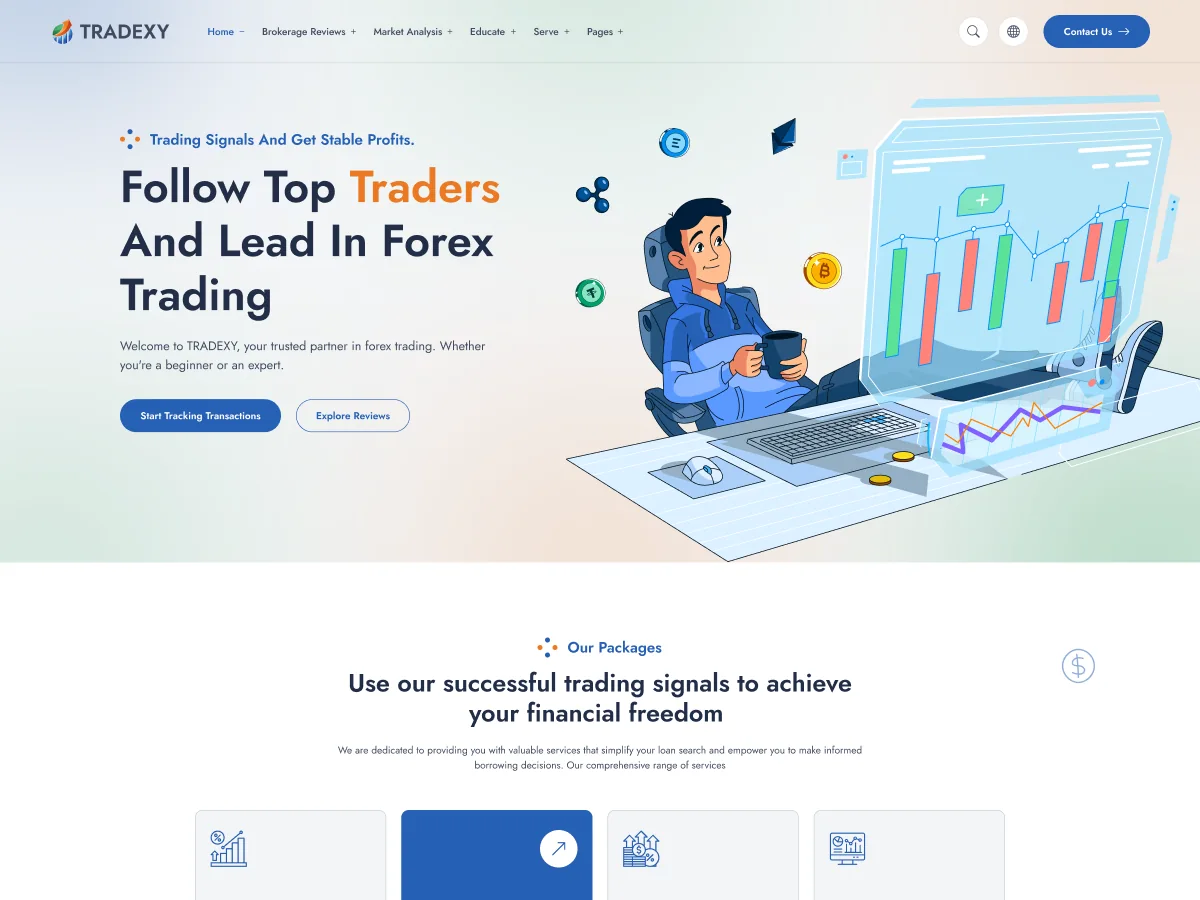
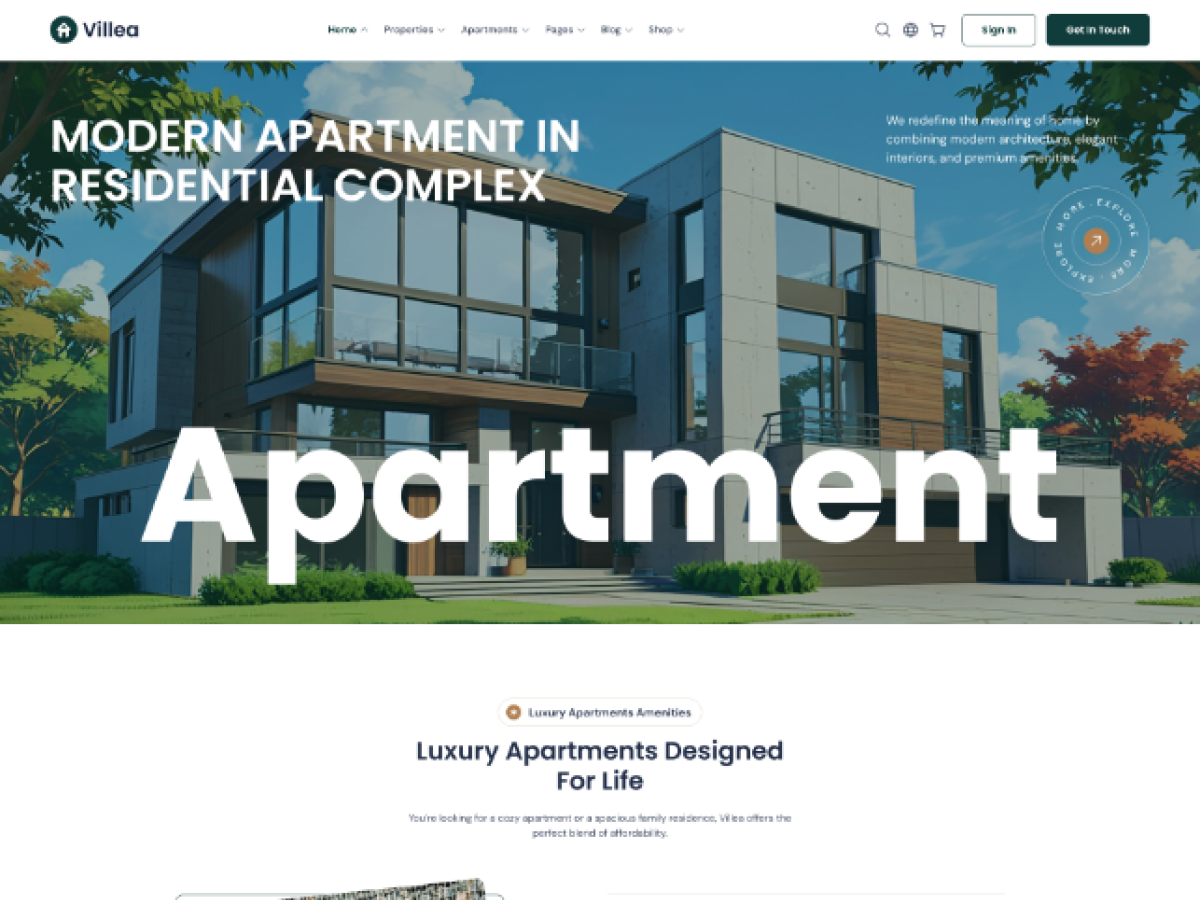
margin controller added

diff --git a/wp-content/plugins/tp-elements/widgets/blog-grid/blog-grid-widget.php b/wp-content/plugins/tp-elements/widgets/blog-grid/blog-grid-widget.php
@@ -2337,6 +2337,18 @@ class Themephi_Elementor_Blog_Grid_Widget extends \Elementor\Widget_Base
             ]
         );
 
+        $this->add_responsive_control(
+            'pagination_margin',
+            [
+                'label' => esc_html__('Margin', 'plugin-name'),
+                'type' => \Elementor\Controls_Manager::DIMENSIONS,
+                'size_units' => ['px', '%', 'em'],
+                'selectors' => [
+                    '{{WRAPPER}} .themephi-blog-grid .pagination-area' => 'margin: {{TOP}}{{UNIT}} {{RIGHT}}{{UNIT}} {{BOTTOM}}{{UNIT}} {{LEFT}}{{UNIT}};',
+                ],
+            ]
+        );
+
         $this->end_controls_section();
         // End Blog Pagination Style
 